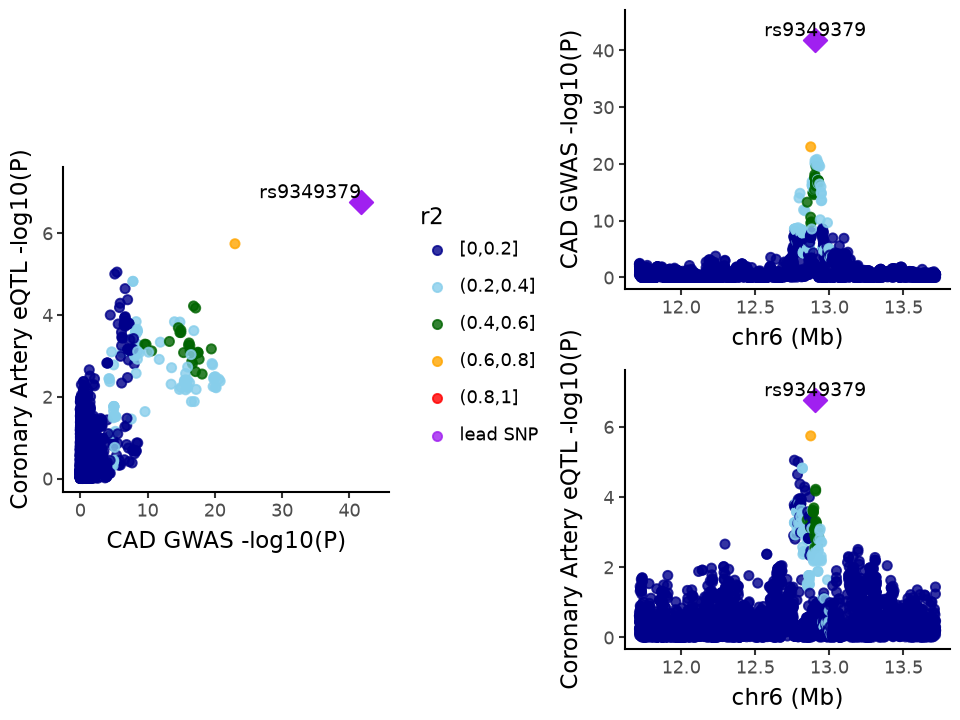
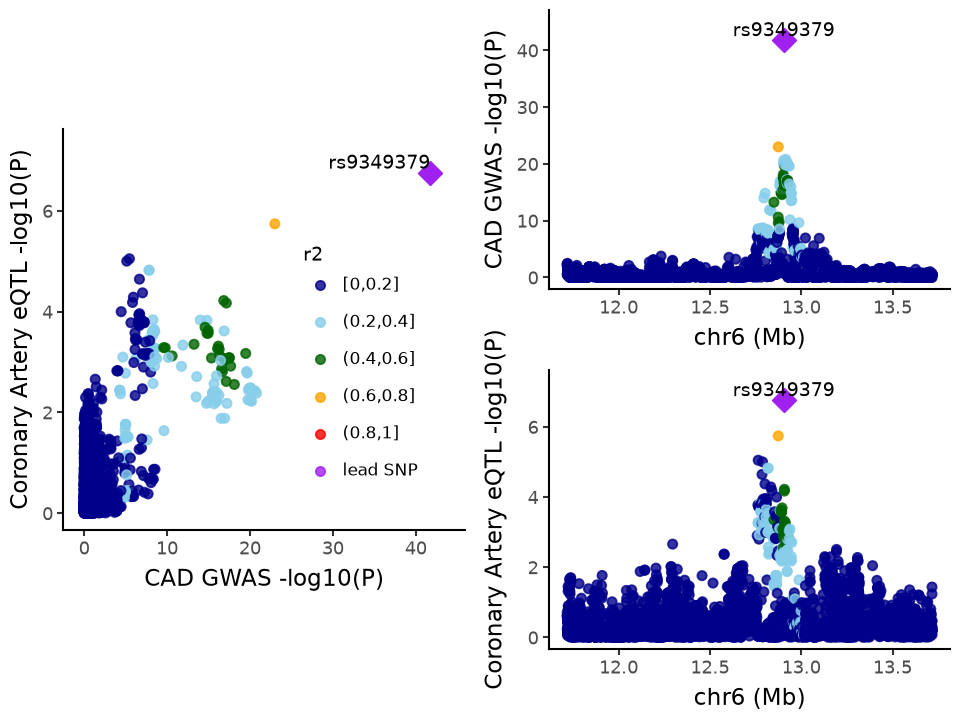
plot: put the r2 legend inside the square scatter so the LocusZoom panels align
Match the R package layout: the LocusCompare scatter is a square panel with the
r2 legend as an inset, so the two stacked LocusZoom panels span the same height
and align with it (rather than the scatter shrinking against a legend column).

diff --git a/src/locuscompare/plot.py b/src/locuscompare/plot.py
@@ -2,6 +2,8 @@
 import pandas as pd
 from plotnine import (
     aes,
+    element_rect,
+    element_text,
     geom_point,
     geom_text,
     ggplot,
@@ -62,7 +64,15 @@ def make_scatterplot(df, title1, title2):
         + scale_y_continuous(expand=(0.05, 0, 0.13, 0))
         + labs(x=f"{title1} -log10(P)", y=f"{title2} -log10(P)")
         + theme_classic()
-        + theme(aspect_ratio=1)  # square panel: the LocusCompare scatter
+        # square panel, with the r2 legend placed inside it (as in the R package)
+        # so the panel fills its cell and aligns with the stacked LocusZoom panels
+        + theme(
+            aspect_ratio=1,
+            legend_position=(0.84, 0.26),
+            legend_title=element_text(size=9),
+            legend_text=element_text(size=8),
+            legend_background=element_rect(fill="white", alpha=0.6),
+        )
     )
 
 